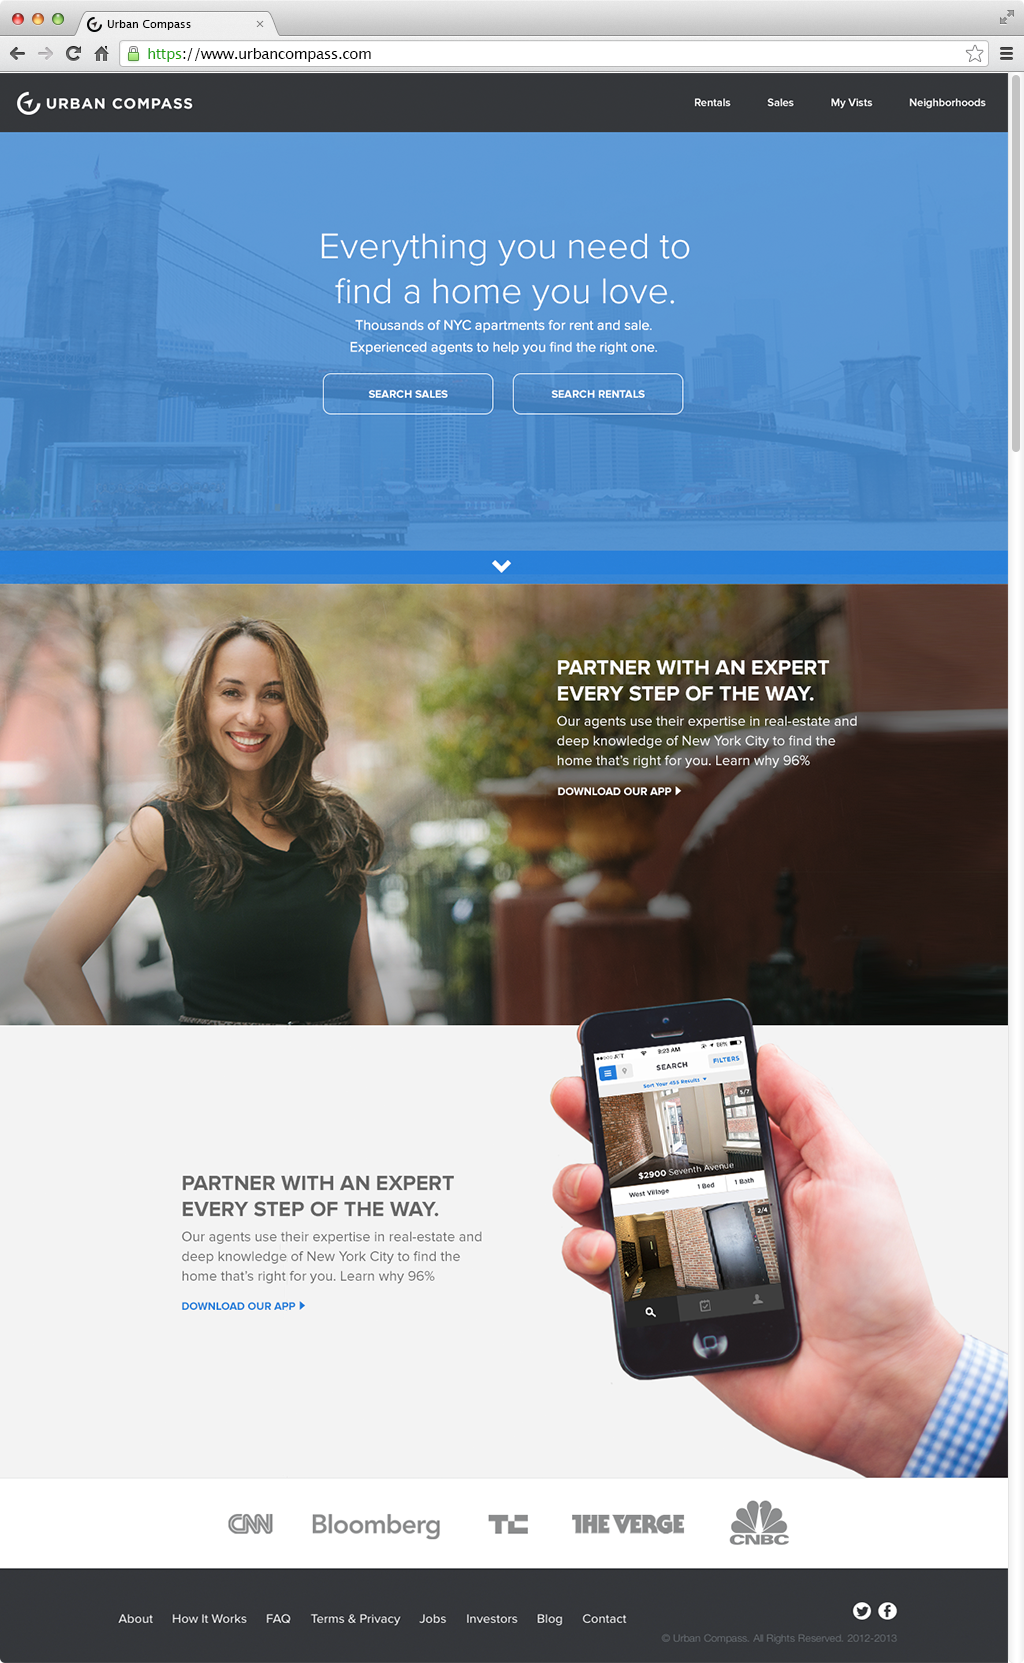
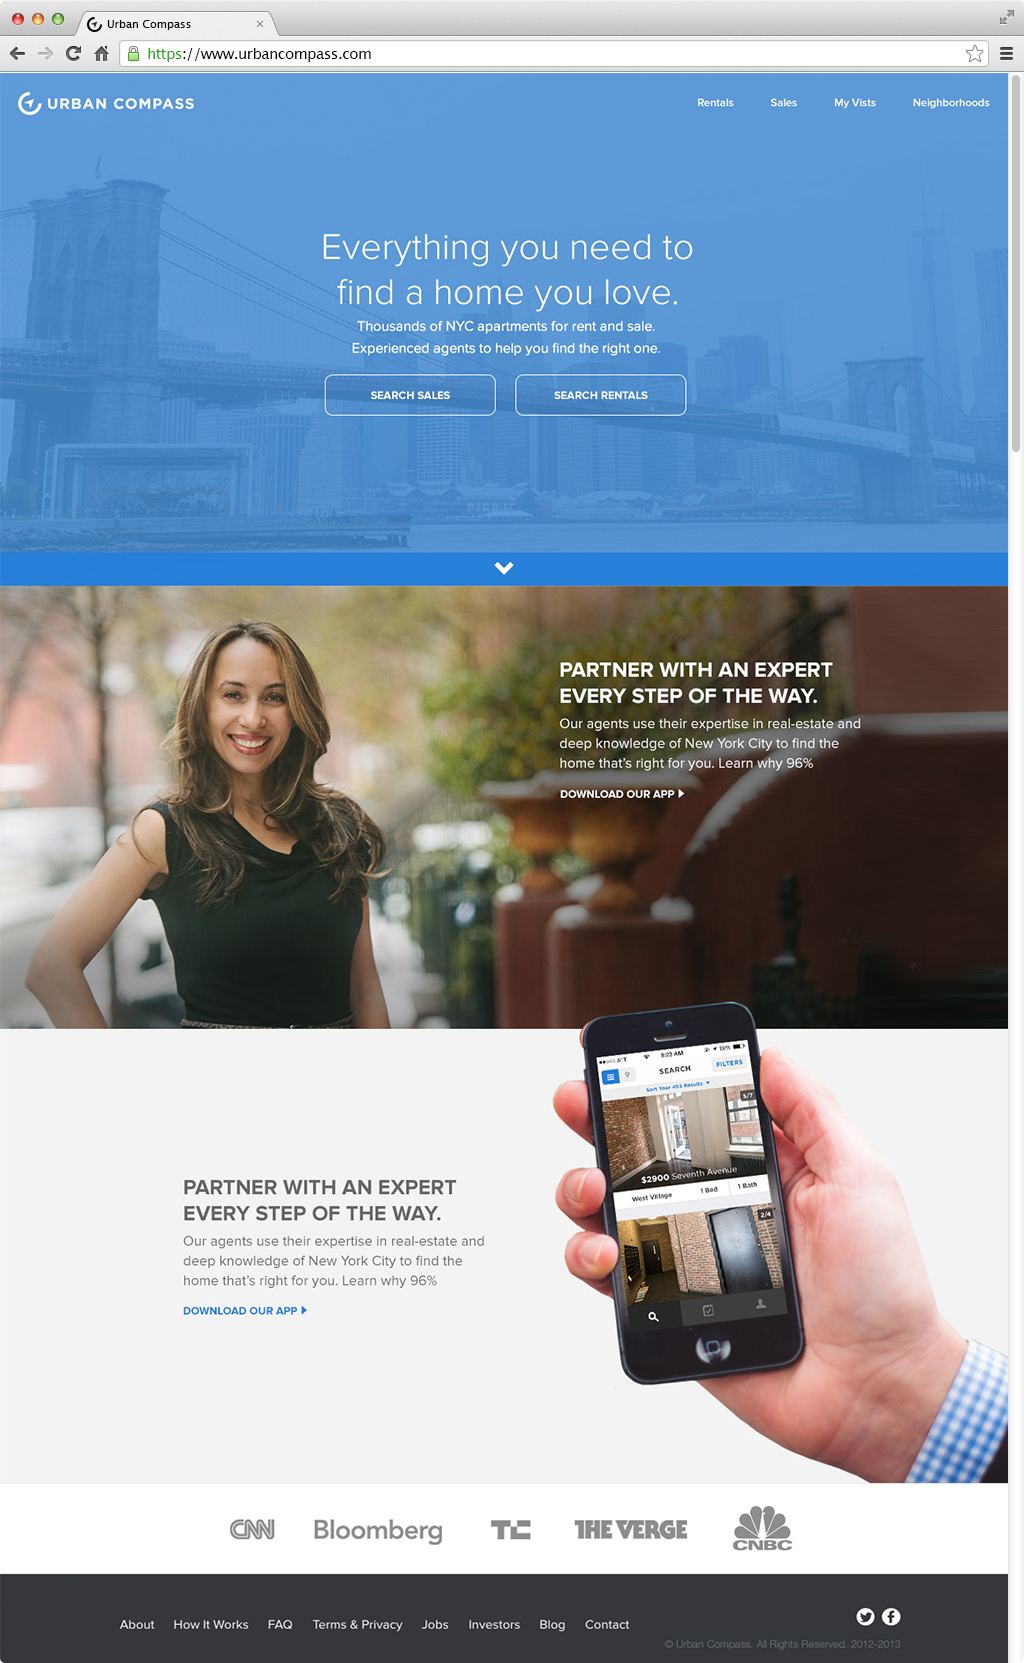
adding image to homepage

diff --git a/source/stylesheets/custom.scss b/source/stylesheets/custom.scss
@@ -1,5 +1,16 @@
 @import 'main';
 
+.hero_image {
+  position: relative;
+  top: 0;
+  height: 800px;
+  background-color: $green;
+  background-image: url("images/hero4.jpg");
+  background-repeat: none;
+  width: 100%;  
+  background-size: cover;
+}
+
 .hero {
 
   h1 {
@@ -10,7 +21,7 @@
       text-align: center;
       margin: 0px 0 70px 0;
       padding-top: 140px;
-      color: $purple;
+      color: #fff;
       line-height: 45px;
     }
 }
@@ -157,9 +168,8 @@
 .about_bg {
   margin-top: 70px;
   background-image: url("images/about9.jpg");
-  background-repeat: repeat-x;
-  height: 700px;
-  filter: blur(2px);
+  background-repeat: none;
+  background-size: cover;
 
 
   .photo_overlay{

diff --git a/source/stylesheets/main.scss b/source/stylesheets/main.scss
@@ -92,7 +92,6 @@ $textgrey: #515151;
 }
 
 footer {
-  margin-top: 40px;
   background-color: #343434;
   height: 77px;
   width: 100%;
